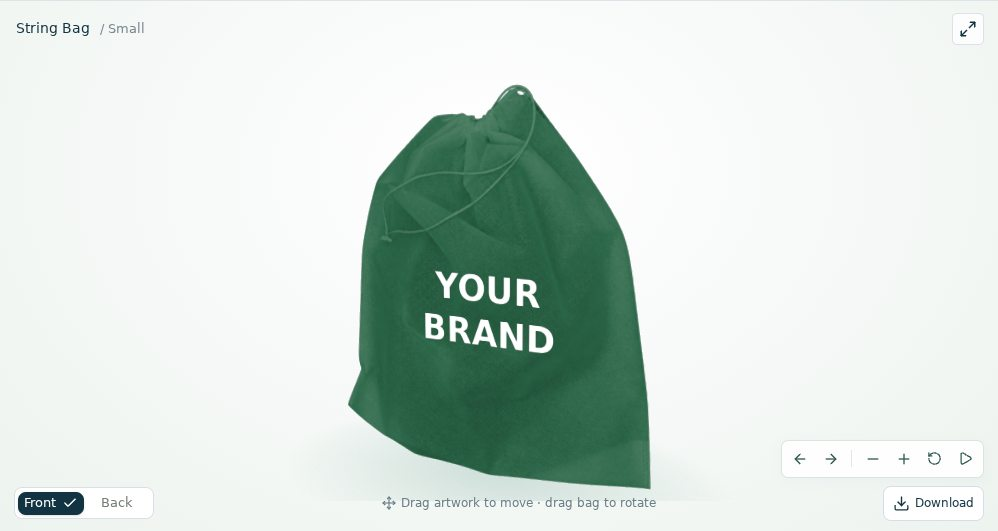
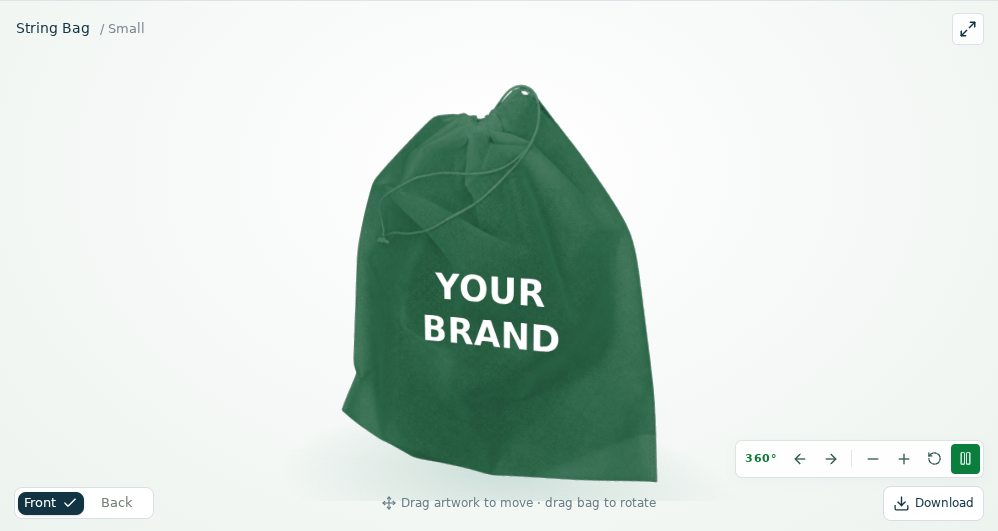
Update Site source

diff --git a/components/studio-3d.tsx b/components/studio-3d.tsx
@@ -67,12 +67,14 @@ export default function Studio3D({
     "loading",
   );
   const [spinning, setSpinning] = useState(false);
+  const autoplayed = useRef(false);
   const [reduced, setReduced] = useState(false);
   const sync = useRef<(d: Design) => void>(() => {});
   useEffect(() => {
     const element = host.current!;
     let disposed = false;
     let unavailable = false;
+    autoplayed.current = false;
     setStatus("loading");
     setSpinning(false);
     onReady?.(false);
@@ -131,6 +133,17 @@ export default function Studio3D({
           instance.update(d, front, back, selection, photo);
           setStatus("ready");
           onReady?.(true);
+          if (
+            !autoplayed.current &&
+            !motion.matches &&
+            !d.logo &&
+            d.text === "YOUR\nBRAND" &&
+            !settings.current.selected
+          ) {
+            autoplayed.current = true;
+            instance.spin(true);
+            setSpinning(true);
+          }
         })
         .catch(fail);
     };
@@ -185,6 +198,12 @@ export default function Studio3D({
     sync.current(design);
   }, [design, selected, activeLayer, guides]);
   useEffect(() => {
+    if (editing && spinning) {
+      scene.current?.spin(false);
+      setSpinning(false);
+    }
+  }, [editing, spinning]);
+  useEffect(() => {
     if (skipSideView.current === design.side) {
       skipSideView.current = null;
       return;
@@ -237,6 +256,9 @@ export default function Studio3D({
           role="group"
           aria-label={t("3D view controls", "Kontrollet e pamjes 3D")}
         >
+          <strong className="studio-3d-badge" aria-hidden="true">
+            360°
+          </strong>
           <button
             aria-label={t("Rotate bag left", "Rrotullo çantën majtas")}
             title={t("Rotate left", "Rrotullo majtas")}

diff --git a/components/bag-studio.tsx b/components/bag-studio.tsx
@@ -219,7 +219,7 @@ export default function BagStudio() {
   const v = p.variants.find((v) => v.name === design.size) || p.variants[0];
   const [copied, setCopied] = useState(false);
   const [tab, setTab] = useState("bag");
-  const [viewMode, setViewMode] = useState("edit");
+  const [viewMode, setViewMode] = useState("3d");
   const [samplePhoto, setSamplePhoto] = useState<string | null>(null);
   const [error, setError] = useState("");
   const [full, setFull] = useState(false);
@@ -607,13 +607,13 @@ export default function BagStudio() {
                 className="view-mode-tabs"
                 aria-label={t("Preview mode", "Pamja e parapamjes")}
               >
-                <TabsTrigger value="edit">
-                  <Move size={15} />
-                  {t("Photo + artwork", "Foto + dizajn")}
-                </TabsTrigger>
                 <TabsTrigger value="3d">
                   <Box size={15} />
                   {t("3D view", "Pamja 3D")}
+                </TabsTrigger>
+                <TabsTrigger value="edit">
+                  <Move size={15} />
+                  {t("Photo + artwork", "Foto + dizajn")}
                 </TabsTrigger>
               </TabsList>
             </Tabs>

diff --git a/lib/studio-scene.ts b/lib/studio-scene.ts
@@ -89,7 +89,7 @@ export function createStudioScene(
   controls.rotateSpeed = 0.65;
   controls.minPolarAngle = 0.48;
   controls.maxPolarAngle = 2.1;
-  controls.autoRotateSpeed = 0.8;
+  controls.autoRotateSpeed = 2.2;
   const model = new THREE.Group();
   scene.add(model);
   scene.add(new THREE.HemisphereLight(0xffffff, 0x718177, 2.15));

diff --git a/app/brand-refresh.css b/app/brand-refresh.css
@@ -3091,6 +3091,13 @@
   border-radius: 7px;
   box-shadow: 0 3px 12px #193b6708;
 }
+.studio-3d-badge {
+  padding: 0 6px;
+  color: #087a36;
+  font-size: 11px;
+  letter-spacing: 0.04em;
+  white-space: nowrap;
+}
 .studio-3d-tools button {
   width: 29px;
   height: 30px;

diff --git a/qa/studio_3d_checks.py b/qa/studio_3d_checks.py
@@ -15,10 +15,11 @@ async def main():
   async def shot(name):
    await page.evaluate('document.activeElement?.blur();window.scrollTo({top:0,behavior:"instant"})');await page.wait_for_timeout(100)
    await page.screenshot(path=str(ROOT/'evidence'/name),type='jpeg',quality=83,full_page=True)
-  await page.goto(BASE+'/design',wait_until='networkidle')
-  assert await page.get_by_role('tab',name='Photo + artwork',exact=True).get_attribute('data-state')=='active'
-  await page.locator('.preview-stage>.bag-canvas[data-ready=true]').wait_for()
-  await page.get_by_role('tab',name='3D view',exact=True).click();await ready()
+  await page.goto(BASE+'/design',wait_until='networkidle');await ready()
+  assert await page.get_by_role('tab',name='3D view',exact=True).get_attribute('data-state')=='active'
+  start=await number('angle');await page.wait_for_timeout(500)
+  assert abs(await number('angle')-start)>.01
+  await page.get_by_role('button',name='Pause rotation',exact=True).click()
   button=await page.locator('.studio-quote .button').bounding_box();assert button['y']+button['height']<=900,button
   assert not await page.evaluate('document.documentElement.scrollWidth>innerWidth')
   models={}
@@ -36,7 +37,7 @@ async def main():
   distance=await number('distance');await page.get_by_role('button',name='Zoom in',exact=True).click();await page.wait_for_function("Number(document.querySelector('.preview-stage .studio-3d-host').dataset.distance)<"+str(distance))
   await page.get_by_role('tab',name='Back',exact=True).click();await page.wait_for_function("Math.abs(Number(document.querySelector('.preview-stage .studio-3d-host').dataset.angle))>2.9")
   await page.get_by_role('tab',name='Front',exact=True).click();await page.wait_for_function("Math.abs(Number(document.querySelector('.preview-stage .studio-3d-host').dataset.angle))<.1")
-  await page.get_by_role('button',name='Auto rotate bag',exact=True).click();before=await number('angle');await page.wait_for_function("Math.abs(Number(document.querySelector('.preview-stage .studio-3d-host').dataset.angle)-"+str(before)+")>.01");await page.get_by_role('button',name='Pause rotation',exact=True).click()
+  await page.get_by_role('button',name='Auto rotate bag',exact=True).click();before=await number('angle');await page.wait_for_function("before => Math.abs(Number(document.querySelector('.preview-stage .studio-3d-host').dataset.angle) - before) > .01",arg=before);await page.get_by_role('button',name='Pause rotation',exact=True).click()
   # Text and uploaded artwork update the same design shown on both 3D faces.
   await page.get_by_role('tab',name='02 Your design',exact=True).click();await page.get_by_label('Brand name or message').fill('NOVA\nFRONT');await ready()
   first=await canvas.screenshot();await page.get_by_label('Brand name or message').fill('NOVA\nSTUDIO');await ready();assert first!=await canvas.screenshot()

diff --git a/docs/DESIGN-HANDOFF.md b/docs/DESIGN-HANDOFF.md
@@ -51,13 +51,13 @@ The intended balance is manufacturer first, products and customization next. Do 
 
 Lead with “Build your bag.” Keep the working surface compact: a 30px desktop title, 26px mobile title, 360px controls column (330/305px on smaller desktops/tablets), 38px fields and short shape tiles. Use the scoped `.studio-compact` rules at the end of `app/brand-refresh.css`; the older `.studio-v4` rules are the compatibility baseline. Cards stack below 700px, and the mobile preview is 310px tall. Desktop keeps the quote action visible while long editing controls scroll inside their panel. Mobile controls and the quote action stay in normal document flow so nothing covers the form. The designer has a short footer instead of the site's large promotional invitation.
 
-**Photo + artwork** opens by default so buyers see the highest-quality product image first. **3D view** uses that same photographed surface on front and back with shallow silhouette-matched side geometry. All five families retain independent front/back logo and text, direct logo/text selection and dragging, empty-space drag rotation, keyboard arrows, rotation buttons, zoom, reset and optional automatic rotation. Front/back actions select the matching view. Automatic motion starts off and remains disabled for reduced-motion users. Fullscreen keeps the same controls; devices without WebGL receive the flat preview. The natural T-Shirt photo is used directly without recoloring; natural Handle and Box photos also keep their source fabric detail. Other selected colors remain visual approximations. A compact strip below the stage opens three real client-supplied photos of the selected bag family for material and construction reference.
+**3D view** opens by default with a visible 360° control and slow automatic rotation of an untouched default design. Interaction stops the spin so buyers can place artwork without the bag moving. The view uses photographed front/back surfaces and shallow silhouette-matched side geometry; it is a visual approximation, not a scanned product model. All five families retain independent front/back logo and text, direct logo/text selection and dragging, empty-space drag rotation, keyboard arrows, rotation buttons, zoom and reset. Reduced-motion users start with a still view. Fullscreen keeps the same controls; devices without WebGL receive the flat preview. The natural T-Shirt photo is used directly without recoloring; natural Handle and Box photos also keep their source fabric detail. Other selected colors remain visual approximations. A compact strip below the stage opens three real client-supplied photos of the selected bag family for material and construction reference.
 
 The bag tab contains size, color, material, print-color count and an optional custom-dimension request. “Next: add your design” opens the artwork tab. Logo and Text select independent layers and show only the selected layer's controls. Logo includes upload, thumbnail/name and optional white-background cleanup; Text includes a short text field, three typefaces, alignment and ink color. Artwork size is immediately available; coordinates and rotation sit inside the expandable **Position & rotation** section. Undo/redo, Center artwork, remove and copy-to-other-side remain available.
 
 In **3D view**, click or tap a logo/text layer to select it. Drag it in any direction within the artwork placement limits; a dashed outline follows the selected layer. Drag empty fabric/background to rotate the bag. Selecting visible back artwork switches the editing side without snapping the camera. Arrow keys nudge selected artwork (Shift: larger steps); Escape deselects it. A complete drag is one undo step, even with a pause. Fullscreen and mobile touch use the same editing behavior.
 
-**Photo + artwork** is the primary flat canvas, based on blank cutouts edited from the supplied product photos. Buyers can drag artwork directly and use keyboard placement. Both views use the same saved design. Dragging preserves the initial grab offset; keyboard arrows move by 1% (Shift: 5%). Guides can be hidden and never appear in exports. The clean downloads remain a single-face concept and a two-sided specification sheet. Keep controls readable; achieve compactness by removing duplicate information and revealing advanced tools on demand.
+**Photo + artwork** is the alternate flat canvas, based on blank cutouts edited from the supplied product photos. Buyers can drag artwork directly and use keyboard placement. Both views use the same saved design. Dragging preserves the initial grab offset; keyboard arrows move by 1% (Shift: 5%). Guides can be hidden and never appear in exports. The clean downloads remain a single-face concept and a two-sided specification sheet. Keep controls readable; achieve compactness by removing duplicate information and revealing advanced tools on demand.
 
 ### Catalog and detail
 

diff --git a/docs/DEVELOPER-HANDOFF.md b/docs/DEVELOPER-HANDOFF.md
@@ -139,11 +139,11 @@ Use approved per-variant print templates, original-file storage, file validation
 
 ### Compact five-family 3D designer
 
-`components/studio-3d.tsx` lazy-loads `lib/studio-scene.ts` when the 3D view mounts. The photo preview is the default. All five 3D families use the same transparent front/back product surface as their flat preview; narrow side geometry follows each photo's alpha silhouette above the folded base. `MeshBasicMaterial` displays the source photograph without light-based washing out. The shape remains a shallow visual approximation rather than production CAD; catalogue size selection updates the specification, not approved physical geometry. The scene has no additional dependency beyond the existing Three.js install.
+`components/studio-3d.tsx` lazy-loads `lib/studio-scene.ts` when the 3D view mounts. The 3D view opens by default. All five families use the same transparent front/back product surface as their flat preview; narrow side geometry follows each photo's alpha silhouette above the folded base. `MeshBasicMaterial` displays the source photograph without light-based washing out. The shape remains a shallow visual approximation rather than production CAD; catalogue size selection updates the specification, not approved physical geometry. The scene has no additional dependency beyond the existing Three.js install.
 
 `renderArtworkTexture` in `components/bag-preview.tsx` shares the artwork painter with the flat renderer. It returns a transparent 1024px canvas plus logical artwork bounds for each face, preserving independent text/logo placement, rotation, ink, alignment and image aspect ratios. `renderBlankBagTexture` supplies every bag's photo surface at the same dimensions as the editable flat mockup; keep its texture coordinates and `lib/studio-artwork.ts` bounds aligned if replacing an asset. Natural T-Shirt uses `studio-real-t-shirt-natural.png` directly; natural Handle and Box retain their source photo colors. Other colors use the runtime tint and remain indicative. Revision tokens discard stale asynchronous results. Only a family change reconstructs the scene; editing updates material colors and existing textures. The established draft/RFQ/proof contracts and PNG exports are unchanged. Both 3D and the flat **Photo + artwork** view support direct placement. `docs/studio-real-photo-sources.json` maps each blank cutout to its source.
 
-OrbitControls supports drag and keyboard rotation. Dedicated controls provide rotation, zoom, reset and opt-in spin. Front/back changes align the view. Auto-spin starts off and honors reduced motion. Pixel ratio is capped at 1.8; rendering settles after interaction and pauses offscreen or when the document is hidden. Cleanup disposes controls, geometry, materials, textures, observers, listeners and renderer. WebGL initialization/context failure exposes a usable flat fallback without discarding the draft.
+OrbitControls supports drag and keyboard rotation. Dedicated controls provide rotation, zoom, reset and spin. Front/back changes align the view. The untouched default bag starts a slow spin to show that the view rotates; selecting artwork, dragging, using a control, or entering editing mode stops it. Saved designs do not auto-spin, and reduced-motion users receive a still view. Pixel ratio is capped at 1.8; rendering settles after interaction and pauses offscreen or when the document is hidden. Cleanup disposes controls, geometry, materials, textures, observers, listeners and renderer. WebGL initialization/context failure exposes a usable flat fallback without discarding the draft.
 
 The compact rules live at the end of `app/brand-refresh.css`, scoped to `.kobags-v5 .studio-compact` so earlier brand rules cannot reintroduce large headings and padding. Desktop controls scroll internally with the quote action below; mobile stacks the canvas and controls with no sticky element over the form. Only the selected Logo/Text controls are shown; precision coordinates are expandable. This compactness convention should guide future extensions.
 
